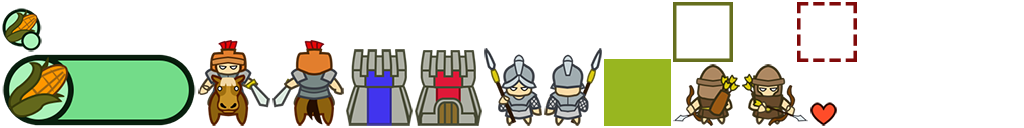
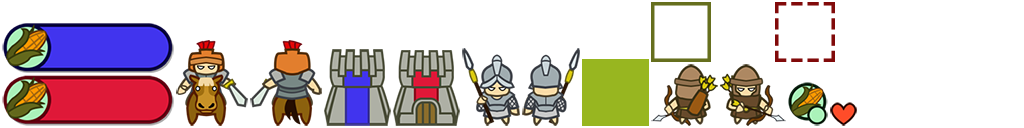
render resource

diff --git a/core/src/com/olan/warmonger/Player.java b/core/src/com/olan/warmonger/Player.java
@@ -1,18 +1,56 @@
 package com.olan.warmonger;
 
-import java.util.ArrayList;
+import com.badlogic.gdx.graphics.g2d.Batch;
+import com.badlogic.gdx.graphics.g2d.TextureRegion;
 
-public class Player {
-  public static final int RED = 1;
-  public static final int BLUE = 2;
-
+public class Player extends GameObject {
   private Team team;
+
+  private int resources;
+  private Text resourceText;
+  private TextureRegion resourceTexture;
 
   public Player (Team team) {
     this.team = team;
+
+    resourceText = new Text(Assets.hudFont);
+    if (team == Team.BLUE) {
+      resourceTexture = Assets.resourceCountBlue;
+      resourceText.setCenter(
+          resourceTexture.getRegionWidth() / 2 + 20,
+          World.HEIGHT - resourceTexture.getRegionHeight() / 2 - 20);
+    } else {
+      resourceTexture = Assets.resourceCountRed;
+      resourceText.setCenter(
+          World.WIDTH - resourceTexture.getRegionWidth() / 2,
+          World.HEIGHT - resourceTexture.getRegionHeight() / 2 - 20);
+    }
+    setResources(resources);
+  }
+
+  @Override
+  public void draw (Batch batch, float parentAlpha) {
+    if (team == Team.BLUE) {
+      batch.draw(resourceTexture, 10,
+          World.HEIGHT - resourceTexture.getRegionHeight() - 20);
+    } else {
+      batch.draw(resourceTexture,
+          World.WIDTH - resourceTexture.getRegionWidth() - 10,
+          World.HEIGHT - resourceTexture.getRegionHeight() - 20);
+    }
+    resourceText.draw(batch);
   }
 
   public Team getTeam () {
     return this.team;
+  }
+
+  public int getResources() {
+    return this.resources;
+  }
+
+  public void setResources(int resources) {
+    this.resources = resources;
+    resourceText.setText(resources + "");
   }
 }

diff --git a/core/src/com/olan/warmonger/Map.java b/core/src/com/olan/warmonger/Map.java
@@ -25,12 +25,12 @@ public class Map extends Group implements Unit.UnitListener,
   private Player redPlayer = new Player(Team.RED);
   private Player bluePlayer = new Player(Team.BLUE);
 
-  private int redResources;
-  private int blueResources;
-
   public Map () {
     currentTeam = Team.BLUE;
 
+    addActor(redPlayer);
+    addActor(bluePlayer);
+    
     gameDriven = new GameDriven();
     setState(new StateIdle((this)));
   }
@@ -94,24 +94,16 @@ public class Map extends Group implements Unit.UnitListener,
     this.selectedUnit = selectedUnit;
   }
 
-  public int getBlueResources () {
-    return blueResources;
-  }
-
-  public void setBlueResources (int resources) {
-    this.blueResources = resources;
-  }
-
-  public int getRedResources() {
-    return redResources;
-  }
-
-  public void setRedResources (int resources) {
-    this.redResources = resources;
-  }
-
   public Team getCurrentTeam () {
     return this.currentTeam;
+  }
+
+  public Player getBluePlayer () {
+    return this.bluePlayer;
+  }
+
+  public Player getRedPlayer () {
+    return this.redPlayer;
   }
 
   public void setCurrentTeam (Team currentTeam) {

diff --git a/core/src/com/olan/warmonger/states/ActionEndTurn.java b/core/src/com/olan/warmonger/states/ActionEndTurn.java
@@ -10,11 +10,10 @@ public class ActionEndTurn implements GameDriven.Action {
   }
 
   public void enter () {
-
+    endTurn();
   }
 
   public void exit () {
-    endTurn();
   }
 
   public void run () {
@@ -22,14 +21,16 @@ public class ActionEndTurn implements GameDriven.Action {
   }
 
   public void endTurn () {
-    int resourceRate = calculateResourceRate();;
+    int resourceRate = calculateResourceRate();
+    Player currentPlayer;
     if (currentTeam == Team.RED) {
-      map.setRedResources(map.getRedResources() + resourceRate);
+      currentPlayer = map.getRedPlayer();
       map.setCurrentTeam(Team.BLUE);
     } else {
-      map.setBlueResources(map.getBlueResources() + resourceRate);
+      currentPlayer = map.getBluePlayer();
       map.setCurrentTeam(Team.RED);
     }
+    currentPlayer.setResources(currentPlayer.getResources() + resourceRate);
   }
 
   public int calculateResourceRate () {

diff --git a/core/src/com/olan/warmonger/Assets.java b/core/src/com/olan/warmonger/Assets.java
@@ -27,8 +27,11 @@ public class Assets {
 
   public static AtlasRegion corn;
   public static AtlasRegion hearth;
+  public static AtlasRegion resourceCountBlue;
+  public static AtlasRegion resourceCountRed;
 
   public static BitmapFont worldFont;
+  public static BitmapFont hudFont;
 
   public static void load () {
     loadTexture();
@@ -64,15 +67,20 @@ public class Assets {
 
     corn = loadTexture("corn");
     hearth = loadTexture("hearth");
+    resourceCountBlue = loadTexture("resource-count-blue");
+    resourceCountRed = loadTexture("resource-count-red");
   }
 
   public static void loadFont () {
     worldFont = loadFont("world-font");
     worldFont.setColor(Color.BLACK);
+
+    hudFont = loadFont("hud-font");
   }
 
   public static void dispose () {
     worldFont.dispose();
+    hudFont.dispose();
     sprite.dispose();
     backgroundTexture.dispose();
   }
